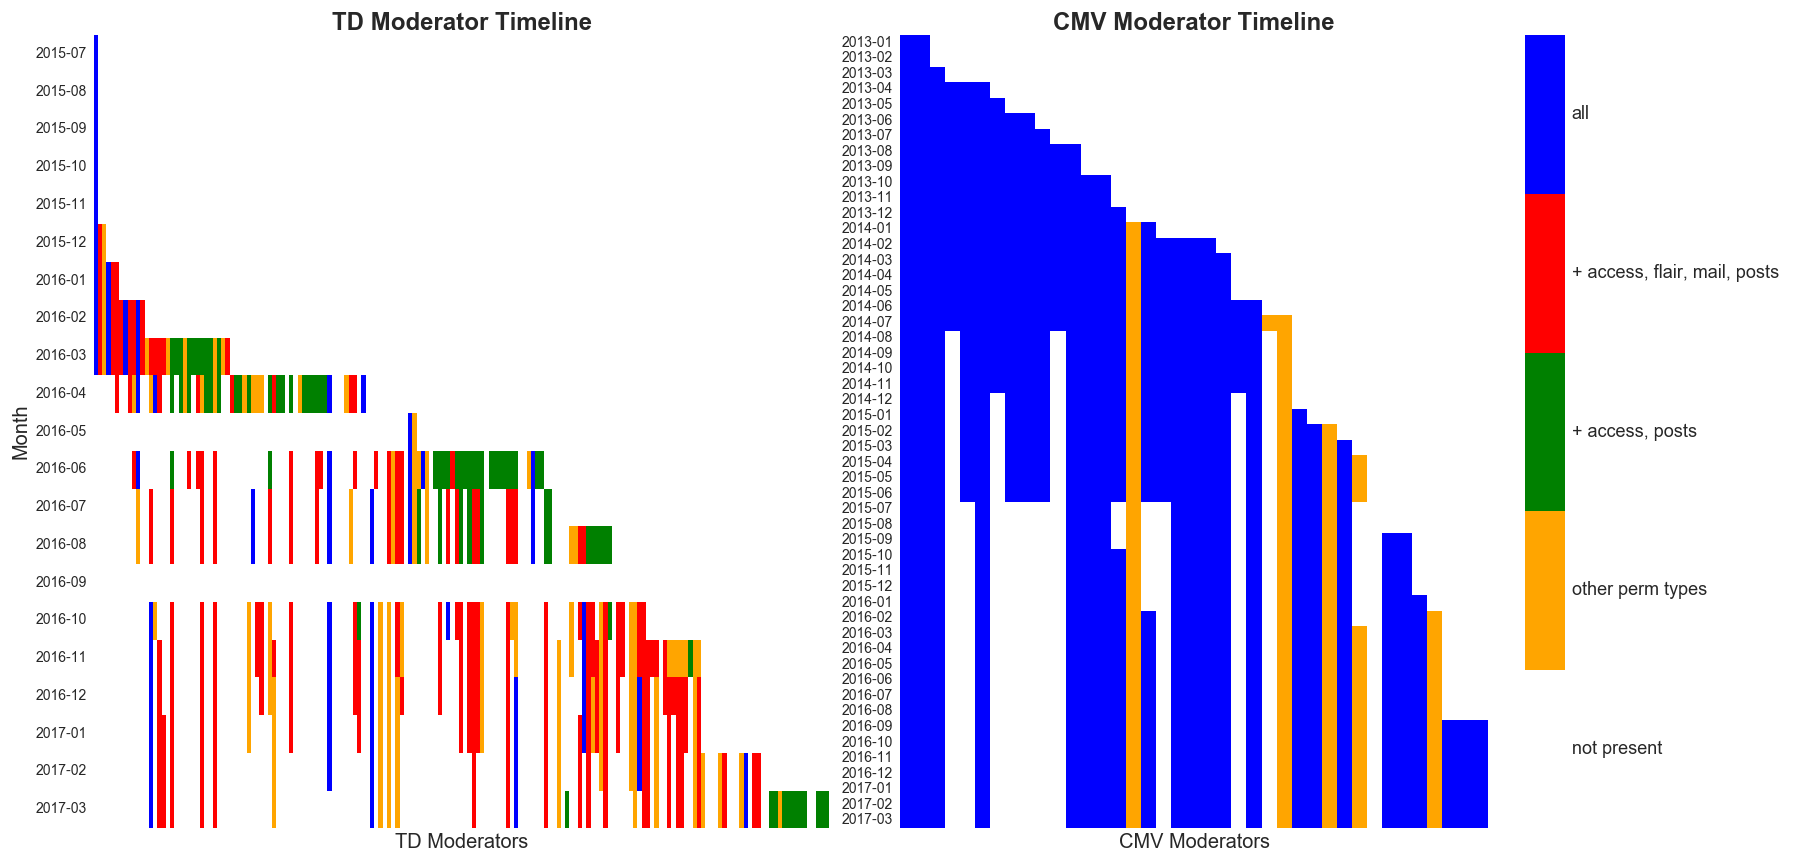
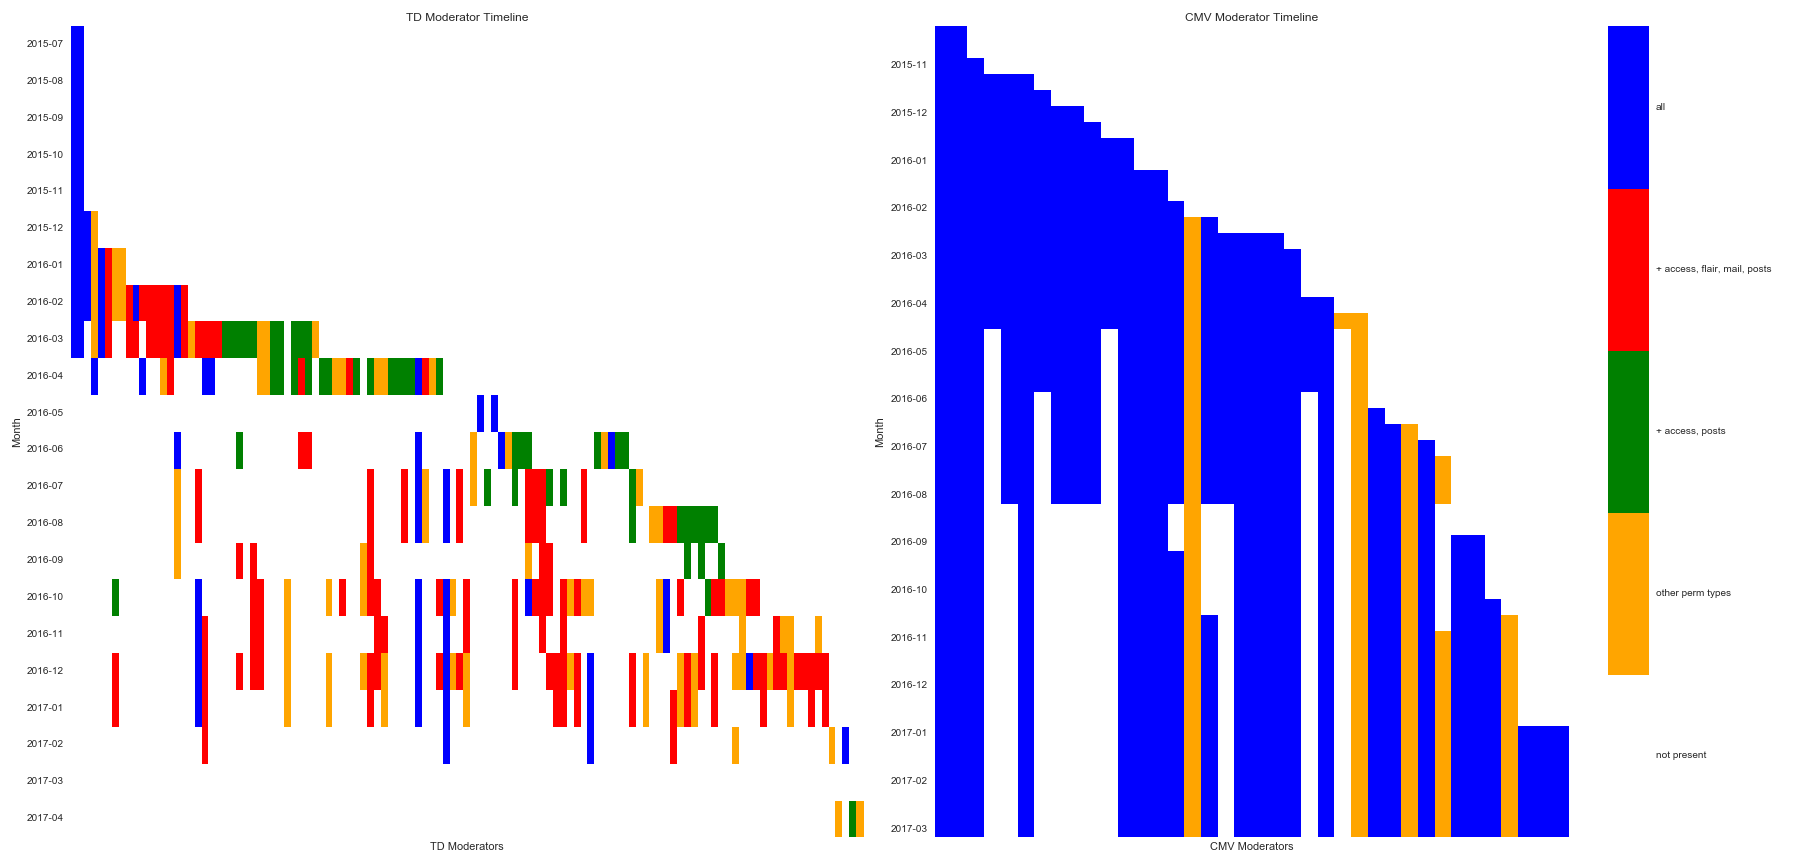
rewrote td scraping script, adding 0.5 to right censoring boundary

diff --git a/scripts/test.html b/scripts/test.html
@@ -1,0 +1,1 @@
+{"kind": "UserList", "data": {"children": [{"author_flair_css_class": "ohsnap", "author_flair_text": "MAGA", "mod_permissions": ["all"], "date": 1476061933.0, "id": "t2_4km58", "name": "OhSnapYouGotServed"}, {"author_flair_css_class": "MURICA", "author_flair_text": "America First!", "mod_permissions": ["all"], "date": 1483036438.0, "id": "t2_a9f6l", "name": "Grakmarr"}, {"author_flair_css_class": "lmaoemoji", "author_flair_text": "RUS", "mod_permissions": ["wiki", "posts", "access", "mail", "config", "flair"], "date": 1483036511.0, "id": "t2_xm17n", "name": "Trumpirium"}, {"author_flair_css_class": "kentucky", "author_flair_text": "BPA", "mod_permissions": ["wiki", "posts", "access", "mail", "config", "flair"], "date": 1483036597.0, "id": "t2_5y6sb", "name": "shadowman3001"}, {"author_flair_css_class": null, "author_flair_text": null, "mod_permissions": ["wiki", "posts", "access", "mail", "config", "flair"], "date": 1483036658.0, "id": "t2_tff18", "name": "Trumpshaker"}, {"author_flair_css_class": null, "author_flair_text": null, "mod_permissions": ["wiki", "posts", "access", "flair"], "date": 1483036721.0, "id": "t2_4zl8g", "name": "lolmonger"}, {"author_flair_css_class": "diamondpepe", "author_flair_text": "RARE", "mod_permissions": ["posts", "access", "mail", "flair"], "date": 1483036890.0, "id": "t2_e4xzy", "name": "TheGreatRoh"}, {"author_flair_css_class": null, "author_flair_text": null, "mod_permissions": ["posts", "access", "mail", "flair"], "date": 1483037272.0, "id": "t2_9qy03", "name": "WarOfTheFanboys"}, {"author_flair_css_class": "centi", "author_flair_text": null, "mod_permissions": ["posts", "access", "mail", "flair"], "date": 1483037297.0, "id": "t2_qt1ca", "name": "mivvan"}, {"author_flair_css_class": "virginia", "author_flair_text": "VA", "mod_permissions": ["posts", "access", "mail", "flair"], "date": 1483037349.0, "id": "t2_rpgl2", "name": "WeWantTrump"}, {"author_flair_css_class": "pennsylvania", "author_flair_text": "PA", "mod_permissions": ["posts", "access", "mail", "flair"], "date": 1483037410.0, "id": "t2_yhh2c", "name": "TrumpCardUpMySleeve"}, {"author_flair_css_class": "canada", "author_flair_text": "CAN", "mod_permissions": ["posts", "access", "mail", "flair"], "date": 1483037631.0, "id": "t2_ohu5j", "name": "UpVoter3145"}, {"author_flair_css_class": "iowa", "author_flair_text": "IA", "mod_permissions": ["posts", "access", "mail", "flair"], "date": 1483037673.0, "id": "t2_mu2cp", "name": "IanPatrick1966"}, {"author_flair_css_class": "texas", "author_flair_text": "TX", "mod_permissions": ["posts", "access", "mail", "flair"], "date": 1483037697.0, "id": "t2_4a91t", "name": "richmomz"}, {"author_flair_css_class": "centi", "author_flair_text": "MAGA", "mod_permissions": ["posts", "access", "mail", "flair"], "date": 1483037748.0, "id": "t2_v704m", "name": "Trumpropriation"}, {"author_flair_css_class": "movingpepe2", "author_flair_text": "K\u00eaK", "mod_permissions": ["posts", "access", "mail", "config", "flair"], "date": 1483037805.0, "id": "t2_61lvy", "name": "RossTheColonel"}, {"author_flair_css_class": "california", "author_flair_text": "TENDIES", "mod_permissions": ["posts", "access", "mail", "flair"], "date": 1483037838.0, "id": "t2_w1xnk", "name": "HIGH_ENERGY_MEMES"}, {"author_flair_css_class": "ireland", "author_flair_text": "RUSSIAN SPY", "mod_permissions": ["posts", "access", "mail", "flair"], "date": 1483037864.0, "id": "t2_fu370", "name": "Knollsit"}, {"author_flair_css_class": "awoo", "author_flair_text": "CA", "mod_permissions": ["wiki", "posts", "access", "mail", "config"], "date": 1483038106.0, "id": "t2_xx0yr", "name": "zettapede"}, {"author_flair_css_class": null, "author_flair_text": null, "mod_permissions": ["posts", "access", "mail", "flair"], "date": 1483038129.0, "id": "t2_d5fgk", "name": "Katfish29"}, {"author_flair_css_class": "uk", "author_flair_text": "UK", "mod_permissions": ["posts", "access", "mail", "flair"], "date": 1483038151.0, "id": "t2_hw667", "name": "hennny"}, {"author_flair_css_class": "police", "author_flair_text": "PD", "mod_permissions": ["posts", "access", "mail", "flair"], "date": 1483038180.0, "id": "t2_x9jig", "name": "Kerry000"}, {"author_flair_css_class": "trumplion", "author_flair_text": "MAGA", "mod_permissions": ["posts", "access", "mail", "flair"], "date": 1483038220.0, "id": "t2_xxu4t", "name": "B_T_F_O"}, {"author_flair_css_class": null, "author_flair_text": null, "mod_permissions": ["all"], "date": 1483038241.0, "id": "t2_bxhiw", "name": "rsashe1980"}, {"author_flair_css_class": null, "author_flair_text": null, "mod_permissions": ["wiki", "posts"], "date": 1483038259.0, "id": "t2_6l4z3", "name": "AutoModerator"}, {"author_flair_css_class": "serbia", "author_flair_text": "SRB", "mod_permissions": ["posts", "access", "mail", "flair"], "date": 1483466702.0, "id": "t2_wwhfj", "name": "TrumpSRB"}, {"author_flair_css_class": "florida", "author_flair_text": "FL", "mod_permissions": ["posts", "access", "mail", "flair"], "date": 1483795214.0, "id": "t2_32zyg", "name": "rightc0ast"}, {"author_flair_css_class": "teambtfo", "author_flair_text": "BTFO", "mod_permissions": ["wiki", "posts", "access", "mail", "config", "flair"], "date": 1485993390.0, "id": "t2_7bng0", "name": "DatabaseCentral"}, {"author_flair_css_class": "britpepe", "author_flair_text": "MAGA", "mod_permissions": ["posts", "access", "mail", "flair"], "date": 1485994300.0, "id": "t2_11mymq", "name": "TwelveTendies"}, {"author_flair_css_class": "trumpgeneral", "author_flair_text": "USA", "mod_permissions": ["all"], "date": 1486092270.0, "id": "t2_122g0k", "name": "Treteste"}, {"author_flair_css_class": "teambtfo", "author_flair_text": "BTFO", "mod_permissions": ["posts", "access", "mail", "flair"], "date": 1486245399.0, "id": "t2_x4b44", "name": "JohnOliversWifesBF"}, {"author_flair_css_class": "teambtfo", "author_flair_text": "BTFO", "mod_permissions": ["posts", "access", "flair"], "date": 1486269757.0, "id": "t2_t6o3g", "name": "SurakofVulcan"}, {"author_flair_css_class": "emt", "author_flair_text": "EMS", "mod_permissions": ["wiki", "posts", "access", "mail", "config", "flair"], "date": 1488302450.0, "id": "t2_w9kul", "name": "JesusWoreNikeSlides"}, {"author_flair_css_class": "teammaga", "author_flair_text": "MAGA", "mod_permissions": ["posts", "access", "mail"], "date": 1488302494.0, "id": "t2_uuiui", "name": "US2A"}, {"author_flair_css_class": "teammaga", "author_flair_text": "MAGA", "mod_permissions": ["posts", "access", "mail"], "date": 1488313723.0, "id": "t2_gmsjj", "name": "Sanotsuto"}, {"author_flair_css_class": null, "author_flair_text": null, "mod_permissions": ["posts", "access"], "date": 1491060312.0, "id": "t2_e8x2q", "name": "MorePancakes"}, {"author_flair_css_class": "airforce", "author_flair_text": "USAF", "mod_permissions": ["posts", "access"], "date": 1491061506.0, "id": "t2_6x8t3", "name": "excaliboor"}, {"author_flair_css_class": "treadonme", "author_flair_text": "DTOM", "mod_permissions": ["posts", "access"], "date": 1491063032.0, "id": "t2_b5h0q", "name": "sublimeinslime"}, {"author_flair_css_class": "tennessee", "author_flair_text": "TN", "mod_permissions": ["posts", "access"], "date": 1491063934.0, "id": "t2_kz0aj", "name": "PM_ME_UR_PURPL_DRANK"}, {"author_flair_css_class": "uk", "author_flair_text": "UK", "mod_permissions": ["posts", "access"], "date": 1491068334.0, "id": "t2_a2yop", "name": "thunderbert80"}, {"author_flair_css_class": "kekistan", "author_flair_text": "KEK", "mod_permissions": ["posts", "access"], "date": 1491070983.0, "id": "t2_iji0m", "name": "raazula"}, {"author_flair_css_class": "kekistan", "author_flair_text": "KEK", "mod_permissions": ["posts", "access"], "date": 1491112675.0, "id": "t2_haoe2", "name": "John3Sobieski"}, {"author_flair_css_class": "minnesota", "author_flair_text": "MN", "mod_permissions": ["posts", "access", "mail"], "date": 1491155430.0, "id": "t2_120n1a", "name": "MailManMax"}, {"author_flair_css_class": "police", "author_flair_text": "PD", "mod_permissions": ["access"], "date": 1491166762.0, "id": "t2_y9j1z", "name": "DeMinimis_Jones"}, {"author_flair_css_class": "arizona", "author_flair_text": "AZ", "mod_permissions": ["posts", "access"], "date": 1491184708.0, "id": "t2_7cmgh", "name": "SportzStar"}, {"author_flair_css_class": "teambtfo", "author_flair_text": "BTFO", "mod_permissions": ["posts", "access", "mail"], "date": 1491332741.0, "id": "t2_ijxl4", "name": "Foss_is_Boss"}]}}

diff --git a/scripts/create_mod_timeline.py b/scripts/create_mod_timeline.py
@@ -28,13 +28,28 @@ def date_range(df):
     dates = list(pd.date_range(start, end, freq='D'))
     return dates
 
-def date_list(dates, start, end, perm_level=0):
+def get_after(end, pubdates):
+    '''returns the next pubdate after the last seen
+    '''
+    date = np.datetime64(end)
+    if date == pubdates[-1]:
+        after = None
+    else:
+        place = [i for i, j in enumerate(pubdates) if j == date][0]
+        after = pubdates[place+1]
+    return after
+
+def date_list(dates, start, end, after, perm_level=0):
     # return a boolean list of presence for the dates range
     # default values 1 unless perm_level given
+    # after is the date of the snapshot after end
     dl = []
     for date in dates:
+            print dates
             if date > start and date <= end:
                 dl.append(perm_level)
+            elif date > end and date <= after:
+                dl.append(0.5)
             else:
                 dl.append(0)
     return dl
@@ -45,16 +60,19 @@ def check_repeats(df):
     repeats = list(count[count>1].index)
     return repeats
 
-def timeline_dict(df, names, dates):
+def timeline_dict(df, dates):
     #list of names must have no repeat mods
     # df has names as index and columns 'date' and 'pubdate
     d = {}
+    df['pubdate'] = df['pubdate'].map(lambda x: np.datetime64(x))
+    pubdates = list(set(df['pubdate']))
     repeats = check_repeats(df)
-    for name in names:
+    for name in list(set(df['name'])):
         if name not in repeats:
             info = date_list(dates,
                              start=df.loc[name]['date'],
                              end=df.loc[name]['pubdate'],
+                             after = get_after(df.loc[name]['pubdate'], pubdates),
                              perm_level=df.loc[name]['perm_level'])
             d[name] = info
         else:
@@ -62,7 +80,8 @@ def timeline_dict(df, names, dates):
             lines = []
             for row in data.itertuples():
                 start, end, perm_level = row[2], row[3], row[4]
-                line = date_list(dates, start, end, perm_level)
+                after = get_after(end, pubdates)
+                line = date_list(dates, start, end, after, perm_level)
                 lines.append(line)
             info = list(np.sum(lines, 0))
             d[name] = info
@@ -80,4 +99,30 @@ def timeline_df(df):
     temps = timeline.sum()[timeline.sum()==0].index #remove mods present less than a week
     timeline = timeline[[name for name in names if name not in temps]] #over mods by time of first modding
     return timeline
-    
+
+# CREATE AND PLOT MONTHLY TIMELINE
+def monthly_timeline(df):
+    timeline = timeline_df(df)
+    months = timeline.resample('M').last()
+    months.index = months.index.map(lambda x: '{}-{:02d}'.format(x.year,x.month))
+    names = months.sum()[months.sum()>0].index
+    months = months[names]
+    return months
+
+def weekly_timeline(df):
+    timeline = timeline_df(df)
+    weeks = timeline.resample('W').last()
+    names = weeks.sum()[weeks.sum()>0].index
+    weeks = weeks[names]   
+    weeks.index = weeks.index.map(lambda x: '{}-{:02d}-{:02d}'.format(
+                                            x.year,x.month, x.day))
+    return weeks
+
+
+##### attempting to add partial color for possible presence
+
+#subset = df.loc['OhSnapYouGotServed']
+
+
+timeline = timeline_df(df)
+

diff --git a/scripts/analyse_mod_timeline.py b/scripts/analyse_mod_timeline.py
@@ -30,7 +30,7 @@ def cmv_data():
 
 # TD data
 def td_data():
-    df = pd.read_csv('/Users/emg/Programming/GitHub/the_donald_project/raw_data/all_mods_archive_it_04_17.csv')
+    df = pd.read_csv('/Users/emg/Programming/GitHub/subreddit-visuals/tidy_data/mods/td-mod-hist.csv', index_col=0)
     df['perm_level'] = df['permissions'].map(
             {'+access,-config,-flair,-mail,+posts,-wiki':2,
                  '+access,-config,+flair,+mail,+posts,-wiki':3,
@@ -38,17 +38,12 @@ def td_data():
             ).fillna(1)
     return df
 
-# CREATE AND PLOT MONTHLY TIMELINE
-def monthly_timeline(df):
-    timeline = timeline_df(df)
-    months = timeline.resample('M').last()
-    months.index = months.index.map(lambda x: '{}-{:02d}'.format(x.year,x.month))
-    return months
+
 
 ## CREATE MONTHLY TIMELINES
-df1 = td_data() 
-months1 = monthly_timeline(df1)
-timeline = timeline_df(df1)
+df = td_data() 
+months1 = monthly_timeline(df)
+timeline = timeline_df(df)
 
 df2 = cmv_data() 
 months2 = monthly_timeline(df2)
@@ -57,7 +52,7 @@ timeline = timeline_df(df1)
 
 ##BETTER COLOURED PLOT
 #set colormap
-colours = ('white','orange','green','red','blue')
+colours = ('white','grey','orange','green','red','blue')
 cmap = LinearSegmentedColormap.from_list('Custom', colours, len(colours))
 
 def plot():
@@ -84,21 +79,24 @@ def plot():
                              '+ access, posts', '+ access, flair, mail, posts',
                              'all'])
     
+    plt.gca().set_yticks(plt.gca().get_yticks()[::3])
     plt.tight_layout()
     
-    #plt.savefig('/Users/emg/Programming/GitHub/subreddit-visuals/figures/joint-timelines.png')
+    plt.savefig('/Users/emg/Programming/GitHub/subreddit-visuals/figures/joint-timelines.png')
 
 plot()
 
+weeks = weekly_timeline(df)
+months = monthly_timeline(df)
 
 def td_plot():
     #td plot only
-    sns.heatmap(months1,cmap=cmap,cbar=False)
+    sns.heatmap(months,cmap=cmap,cbar=False)
     plt.title('TD Moderator Timeline')
     plt.ylabel('Month (Quarterly)')
     plt.xlabel('TD Moderators')
     plt.tick_params(axis='x',which='both', labelbottom='off')
-    plt.gca().set_yticks(plt.gca().get_yticks()[::3])
+    #plt.gca().set_yticks(plt.gca().get_yticks()[::3])
 
 td_plot()
 
@@ -109,6 +107,11 @@ def cmv_plot():
     plt.ylabel('Month (Quarterly)')
     plt.xlabel('CMV Moderators')
     plt.tick_params(axis='x',which='both', labelbottom='off')
-    plt.gca().set_yticks(plt.gca().get_yticks()[::3])
+    #plt.gca().set_yticks(plt.gca().get_yticks()[::3])
 
 cmv_plot()
+
+
+d = months1.sum(1)[months1.sum(1) == 8.0].index
+               s = timeline[timeline.index.isin(d)]
+               
